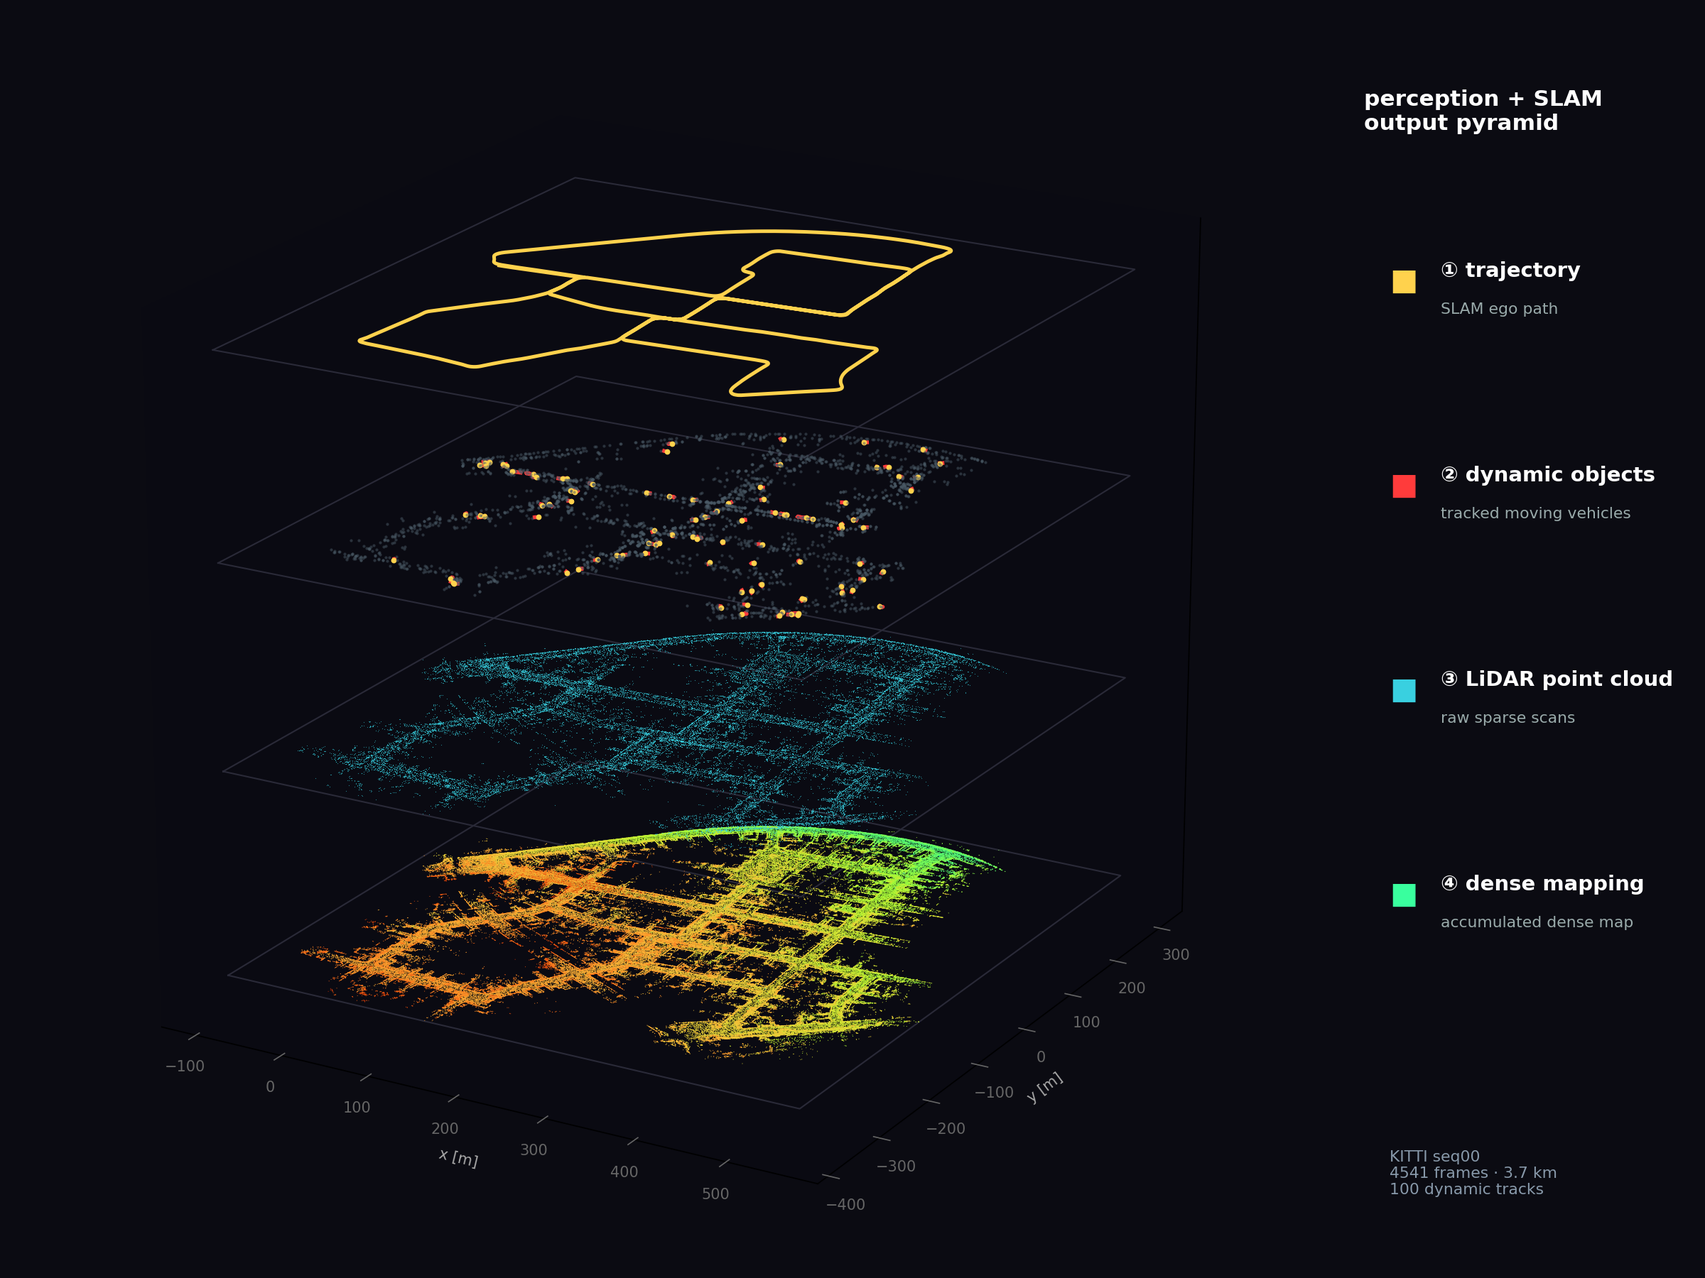
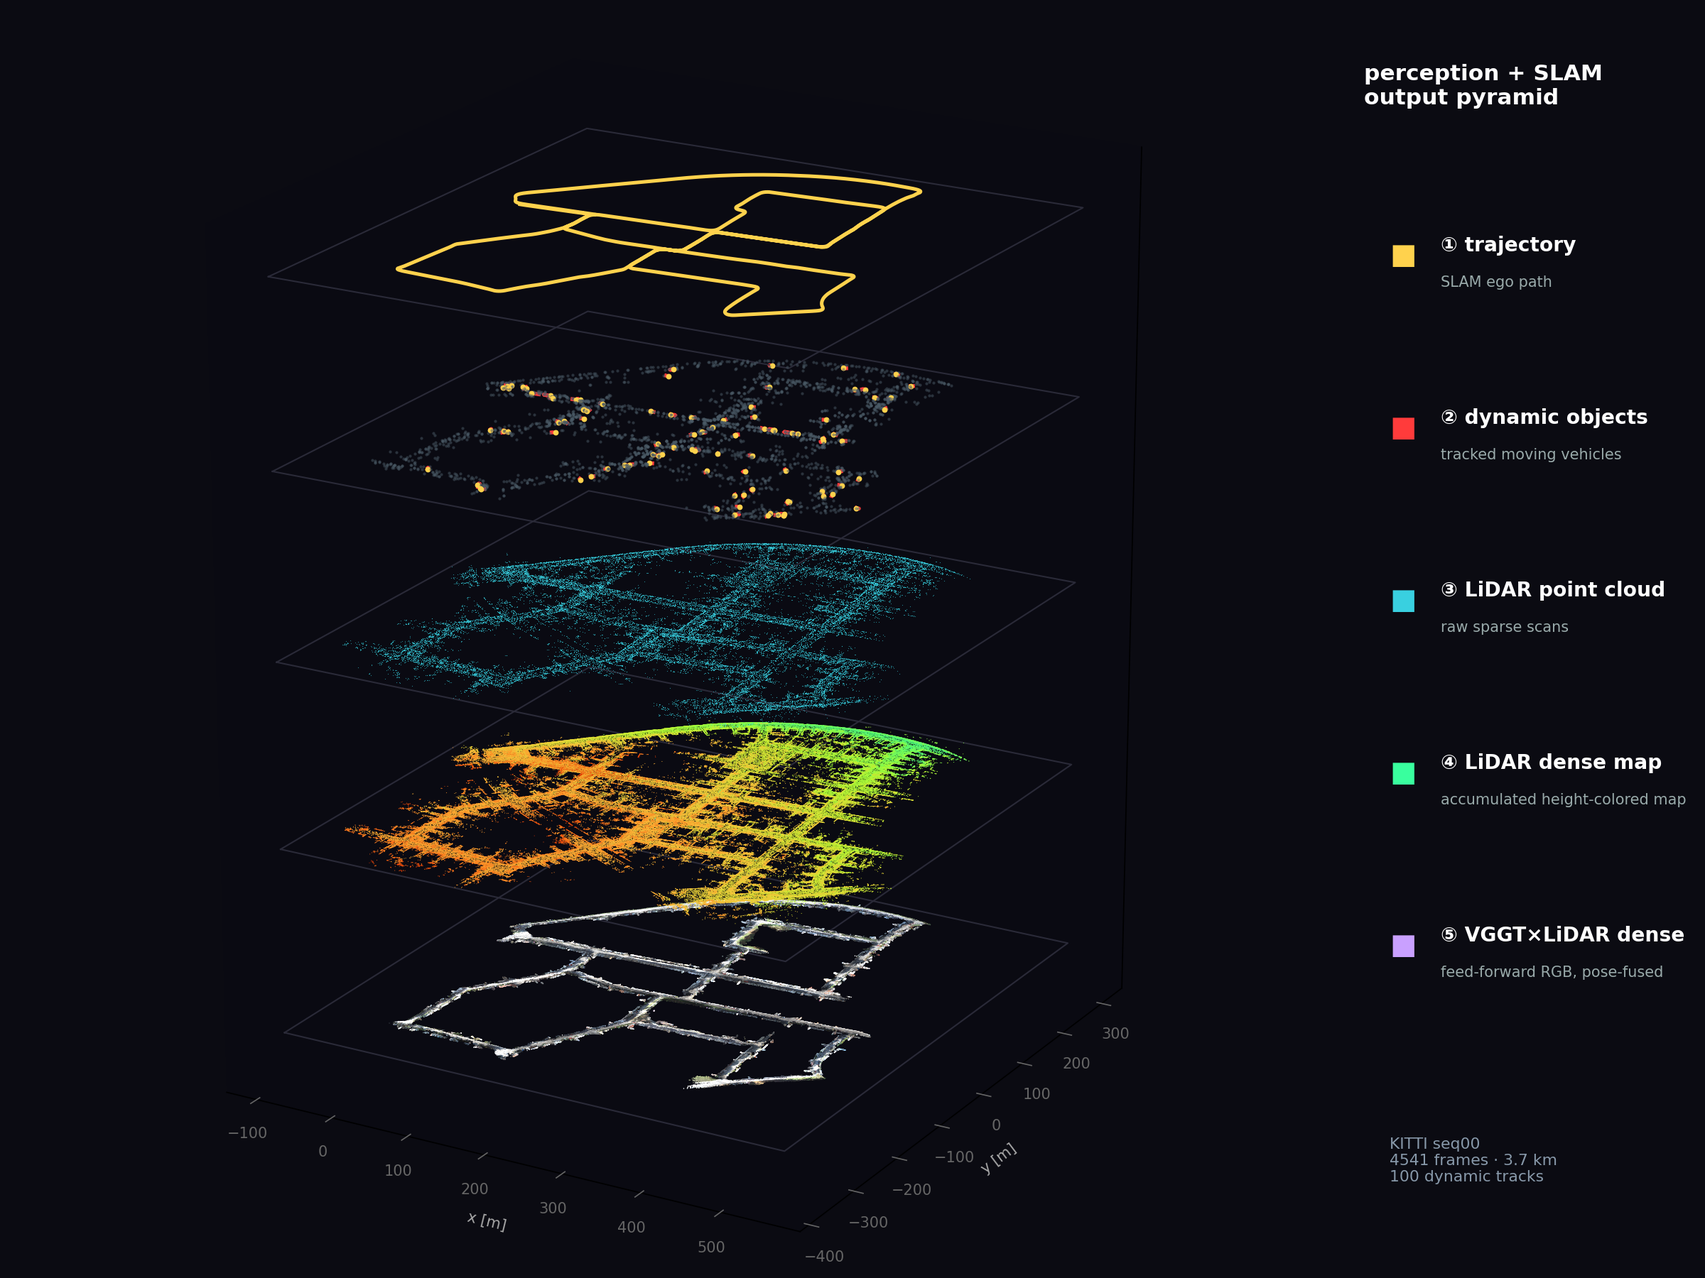
Deeply couple VGGT dense reconstruction into LiDAR SLAM world
- scripts/run_vggt_fuse.py: per-window VGGT feed-forward dense cloud + camera
  poses, aligned to SLAM camera trajectory via scale-Sim(3) Umeyama, fused into
  the metric SLAM world frame (loop/PGO-consistent). seq00 cam-align RMSE 6-20cm,
  1.53M-point colored map over the full 3.7km loop.
- plot_pyramid.py: 5th layer = VGGT×LiDAR dense RGB base (falls back to 4 layers
  if the fused npz is absent).
- Only the public VGGT model + official weights; no non-public fusion code.
  Honest scope: pose-anchored dense fusion (visualization-grade), not joint BA.
- README: highlights row, VGGT-coupling section, 5-layer pyramid, gallery figure.

diff --git a/scripts/run_vggt_fuse.py b/scripts/run_vggt_fuse.py
@@ -1,0 +1,164 @@
+"""VGGT 深度耦合进 LiDAR SLAM：把 VGGT 前馈稠密重建按位姿配准、定尺度，融进 SLAM 世界系。
+
+不是"仅渲染"了——这里做真正的耦合：
+  · VGGT 每个窗口输出稠密带色点云 + 相机位姿，但**单目、尺度任意、各窗口独立**；
+  · LiDAR SLAM 提供**全局一致的度量位姿**（slam_seqSS.npz 的 opt 位姿，含回环/PGO）；
+  · 对每个窗口，用 VGGT 相机中心 vs SLAM 相机中心做 **Sim(3)（含尺度）Umeyama 对齐**，
+    把该窗口的稠密点旋到 SLAM 世界系并赋予真实米制尺度；
+  · 多窗口累积 + 体素下采样 → 一张**全局一致、度量正确、稠密带色**的 VGGT 地图，
+    与 LiDAR 轨迹/地图同系（叠轨迹即可验证配准）。
+
+即：LiDAR 给尺度与全局约束，VGGT 给稠密光度几何，两者经位姿耦合。**仅调公开 VGGT 权重，
+绝不导入任何非公开的 LiDAR-VGGT-SLAM 融合工程**（PYTHONPATH 指公开 VGGT-Long/base_models）。
+用法：python scripts/run_vggt_fuse.py --seq 0 --end 360 --count 16 --step 2
+"""
+import argparse
+import os
+import sys
+from pathlib import Path
+
+import numpy as np
+import torch
+
+ROOT = Path(__file__).resolve().parents[1]
+sys.path.insert(0, str(ROOT))
+VGGT_SRC = os.environ.get('VGGT_SRC', '/media/4T/cst/PROJECT/Compare_SLAM/VGGT-Long/base_models')
+VGGT_WEIGHTS = os.environ.get('VGGT_WEIGHTS', '/media/4T/cst/model/VGGT.pt')
+sys.path.insert(0, VGGT_SRC)
+
+from vggt.models.vggt import VGGT
+from vggt.utils.load_fn import load_and_preprocess_images
+from vggt.utils.pose_enc import pose_encoding_to_extri_intri
+
+from kitti_slam import kitti_io as io
+
+
+def kitti_image(seq, frame):
+    return (Path('/media/4T/cst/DATASETS/SLAM/KITTI_Odometry/unpacked/dataset/sequences')
+            / f'{int(seq):02d}' / 'image_2' / f'{int(frame):06d}.png')
+
+
+def umeyama_sim3(A, B):
+    """求 s,R,t 使 B ≈ s·R·A + t（含尺度的相似变换，Umeyama 1991）。A,B: (N,3)。"""
+    mu_a, mu_b = A.mean(0), B.mean(0)
+    Ac, Bc = A - mu_a, B - mu_b
+    H = (Ac.T @ Bc) / len(A)
+    U, D, Vt = np.linalg.svd(H)
+    S = np.eye(3)
+    if np.linalg.det(U) * np.linalg.det(Vt) < 0:
+        S[2, 2] = -1
+    R = Vt.T @ S @ U.T
+    var_a = (Ac ** 2).sum() / len(A)
+    s = float((D * np.diag(S)).sum() / var_a)
+    t = mu_b - s * R @ mu_a
+    return s, R, t
+
+
+def voxel_downsample(P, C, voxel):
+    """体素栅格下采样：每格取首个点。返回下采样后的 P,C。"""
+    key = np.floor(P / voxel).astype(np.int64)
+    _, idx = np.unique(key, axis=0, return_index=True)
+    return P[idx], C[idx]
+
+
+def main(argv=None):
+    ap = argparse.ArgumentParser(description=__doc__)
+    ap.add_argument('--seq', type=int, default=0)
+    ap.add_argument('--start', type=int, default=0)
+    ap.add_argument('--end', type=int, default=360, help='覆盖到的帧（含多个窗口）')
+    ap.add_argument('--count', type=int, default=16, help='每窗口送入 VGGT 的帧数')
+    ap.add_argument('--step', type=int, default=2, help='窗口内帧间隔')
+    ap.add_argument('--conf-pct', type=float, default=55.0)
+    ap.add_argument('--voxel', type=float, default=0.3, help='累积地图体素下采样(米)')
+    ap.add_argument('--out', default=None)
+    args = ap.parse_args(argv)
+
+    npz = ROOT / 'reports' / f'slam_seq{args.seq:02d}.npz'
+    if not npz.exists():
+        print(f'需要先跑 run_slam.py 生成 {npz.name}'); return 1
+    T_wv = np.load(npz)['opt']                                  # T_world_velo（含回环/PGO）
+    Tr_inv = io.read_calib(args.seq)['Tr_inv']
+    T_wc = T_wv @ Tr_inv                                        # T_world_cam0：相机在世界系
+    cam_w = T_wc[:, :3, 3]                                      # SLAM 相机中心轨迹
+
+    device = 'cuda'
+    print(f'loading VGGT ({VGGT_WEIGHTS}) ...')
+    model = VGGT()
+    model.load_state_dict(torch.load(VGGT_WEIGHTS, map_location='cpu', weights_only=True), strict=False)
+    model.eval().to(device).requires_grad_(False)
+    dtype = torch.bfloat16 if torch.cuda.get_device_capability()[0] >= 8 else torch.float16
+
+    span = args.count * args.step
+    win_starts = list(range(args.start, min(args.end, len(T_wv)) - span + 1, span))
+    print(f'seq{args.seq:02d}: {len(win_starts)} windows × {args.count} frames, '
+          f'covering f{args.start}..{win_starts[-1] + span}')
+
+    all_P, all_C = [], []
+    for w0 in win_starts:
+        frames = list(range(w0, w0 + span, args.step))
+        paths = [str(kitti_image(args.seq, f)) for f in frames]
+        images = load_and_preprocess_images(paths).to(device)
+        with torch.no_grad(), torch.autocast('cuda', dtype=dtype):
+            pred = model(images)
+        wp = pred['world_points'][0].float().cpu().numpy()          # [S,H,W,3]
+        conf = pred['world_points_conf'][0].float().cpu().numpy()   # [S,H,W]
+        imgs = pred['images'][0].float().cpu().numpy().transpose(0, 2, 3, 1)
+        extr, _ = pose_encoding_to_extri_intri(pred['pose_enc'], images.shape[-2:])
+        extr = extr[0].float().cpu().numpy()                        # [S,3,4] world->cam
+        # VGGT 相机中心（VGGT 世界系）= -R^T t
+        cam_v = np.array([-e[:3, :3].T @ e[:3, 3] for e in extr])
+
+        s, R, t = umeyama_sim3(cam_v, cam_w[frames])                # VGGT→SLAM 世界系
+        P = wp.reshape(-1, 3); C = imgs.reshape(-1, 3).clip(0, 1); K = conf.reshape(-1)
+        keep = K >= np.percentile(K, args.conf_pct)
+        P, C = P[keep], C[keep]
+        Pw = (s * (P @ R.T)) + t                                    # 融进 SLAM 世界系(米制)
+        Pw, C = voxel_downsample(Pw, C, args.voxel)
+        all_P.append(Pw); all_C.append(C)
+        fit = np.linalg.norm((s * (cam_v @ R.T) + t) - cam_w[frames], axis=1).mean()
+        print(f'  win f{w0:04d}: scale={s:.2f}, cam-align RMSE={fit:.2f}m, '
+              f'+{len(Pw):,} pts', flush=True)
+
+    P = np.vstack(all_P); C = np.vstack(all_C)
+    P, C = voxel_downsample(P, C, args.voxel)
+    print(f'fused VGGT map: {len(P):,} points (voxel {args.voxel}m)')
+    out_npz = ROOT / 'reports' / f'vggt_fused_seq{args.seq:02d}.npz'
+    np.savez(out_npz, points=P, colors=C, cam_w=cam_w[:win_starts[-1] + span])
+    print('  saved', out_npz.name)
+
+    _render(args, P, C, cam_w[args.start:win_starts[-1] + span])
+    return 0
+
+
+def _render(args, P, C, traj):
+    import matplotlib
+    matplotlib.use('Agg')
+    import matplotlib.pyplot as plt
+    # SLAM velo 世界系：z 竖直。俯视取 (x, y)。
+    fig = plt.figure(figsize=(18, 8)); fig.patch.set_facecolor('#0b0b12')
+    axb = fig.add_subplot(1, 2, 1); axb.set_facecolor('#0b0b12')
+    axb.scatter(P[:, 0], P[:, 1], c=C, s=0.35, linewidths=0, rasterized=True)
+    axb.plot(traj[:, 0], traj[:, 1], '-', color='#ffe14d', lw=1.6, label='SLAM trajectory')
+    axb.set_aspect('equal'); axb.legend(labelcolor='w', loc='upper right')
+    axb.set_title('VGGT dense map fused into SLAM world (BEV, metric)', color='w')
+    axb.set_xlabel('x [m]'); axb.set_ylabel('y [m]')
+    ax3 = fig.add_subplot(1, 2, 2, projection='3d'); ax3.set_facecolor('#0b0b12')
+    for pane in (ax3.xaxis, ax3.yaxis, ax3.zaxis):
+        pane.set_pane_color((0.04, 0.04, 0.07, 1.0)); pane.label.set_color('w')
+        pane.set_tick_params(colors='#888')
+    sub = np.random.default_rng(0).choice(len(P), min(200000, len(P)), replace=False)
+    ax3.scatter(P[sub, 0], P[sub, 1], P[sub, 2], c=C[sub], s=0.4, linewidths=0, depthshade=False)
+    ax3.plot(traj[:, 0], traj[:, 1], traj[:, 2], '-', color='#ffe14d', lw=1.4)
+    ax3.set_title('VGGT×LiDAR dense reconstruction (3D, world frame)', color='w')
+    ax3.set_xlabel('x'); ax3.set_ylabel('y'); ax3.set_zlabel('z')
+    ax3.view_init(elev=38, azim=-60)
+    axb.tick_params(colors='w'); [sp.set_color('w') for sp in axb.spines.values()]
+    fig.suptitle(f'KITTI seq{args.seq:02d}: VGGT feed-forward reconstruction deeply coupled '
+                 f'to LiDAR SLAM (pose-anchored Sim(3) fusion)', color='w')
+    out = args.out or ROOT / 'reports' / f'vggt_fused_seq{args.seq:02d}.png'
+    fig.tight_layout(); fig.savefig(out, dpi=130, facecolor='#0b0b12')
+    print('  saved', out)
+
+
+if __name__ == '__main__':
+    raise SystemExit(main())

diff --git a/scripts/plot_pyramid.py b/scripts/plot_pyramid.py
@@ -1,11 +1,13 @@
-"""分层金字塔图：把系统输出分成四层水平面自底向上堆叠（数据→抽象的金字塔）。
+"""分层金字塔图：把系统输出分成五层水平面自底向上堆叠（数据→抽象的金字塔）。
 
-  顶  ①轨迹 (trajectory)            —— 最抽象、最紧凑
+  顶  ①轨迹 (trajectory)               —— 最抽象、最紧凑
       ②动态物体 (dynamic objects, 红=动/青=静)
       ③激光点云 (raw LiDAR points, 稀疏)
-  底  ④稠密建图 (dense map, 按高度着色)  —— 数据量最大
+      ④稠密建图 (LiDAR dense map, 按高度着色)
+  底  ⑤VGGT×LiDAR 稠密重建 (RGB 带色，深度耦合)  —— 数据量最大、最具象
 
 所有层共用 seq00 SLAM 世界系的同一 XY 底面，垂直错开堆叠；图例标注在右侧。
+⑤ 层来自 run_vggt_fuse.py（VGGT 前馈稠密重建按位姿 Sim(3) 融进 SLAM 世界系）；缺则退回四层。
 用法：python scripts/plot_pyramid.py --seq 0
 """
 import argparse
@@ -34,6 +36,15 @@ def main(argv=None):
     for c in sorted((ROOT / 'reports').glob(f'demo_cache_seq{args.seq:02d}_*.pkl')):
         tracks = pickle.load(open(c, 'rb'))[4]; break
 
+    vggt_npz = ROOT / 'reports' / f'vggt_fused_seq{args.seq:02d}.npz'
+    vggt = None
+    if vggt_npz.exists():
+        vf = np.load(vggt_npz)
+        vp, vc = vf['points'], vf['colors']
+        sub = rng.choice(len(vp), min(220000, len(vp)), replace=False)
+        # 亮度提一点(gamma)让 KITTI 偏暗的 RGB 在深底上更清楚；仅显示用
+        vggt = (vp[sub], np.clip(vc[sub] ** 0.7 * 1.15, 0, 1))
+
     import matplotlib
     matplotlib.use('Agg')
     import matplotlib.pyplot as plt
@@ -44,51 +55,63 @@ def main(argv=None):
     x0, x1 = mp[:, 0].min(), mp[:, 0].max()
     y0, y1 = mp[:, 1].min(), mp[:, 1].max()
     frame = np.array([[x0, y0], [x1, y0], [x1, y1], [x0, y1], [x0, y0]])
-    Z = [0, args.gap, 2 * args.gap, 3 * args.gap]                   # 底→顶
+    nlev = 5 if vggt is not None else 4
+    Z = [i * args.gap for i in range(nlev)]                         # 底→顶
+    top = nlev - 1
 
     def plane(z):
         ax.plot(frame[:, 0], frame[:, 1], z, color='#2a2a38', lw=1.0)
 
-    # ④ 底：稠密建图（按高度着色）
-    ax.scatter(dense[:, 0], dense[:, 1], np.full(len(dense), Z[0]),
+    b = 0
+    if vggt is not None:
+        # ⑤ 底：VGGT×LiDAR 稠密带色重建（深度耦合），最具象
+        vp, vc = vggt
+        ax.scatter(vp[:, 0], vp[:, 1], np.full(len(vp), Z[0]),
+                   c=vc, s=0.5, linewidths=0, depthshade=False)
+        plane(Z[0]); b = 1
+    # ④ LiDAR 稠密建图（按高度着色）
+    ax.scatter(dense[:, 0], dense[:, 1], np.full(len(dense), Z[b]),
                c=dense[:, 2] - dense[:, 2].min(), cmap='turbo', s=0.25, linewidths=0, depthshade=False)
-    plane(Z[0])
+    plane(Z[b])
     # ③ 激光点云（稀疏、单色青）
-    ax.scatter(sparse[:, 0], sparse[:, 1], np.full(len(sparse), Z[1]),
+    ax.scatter(sparse[:, 0], sparse[:, 1], np.full(len(sparse), Z[b + 1]),
                c='#39d0e0', s=0.3, linewidths=0, alpha=0.65, depthshade=False)
-    plane(Z[1])
+    plane(Z[b + 1])
     # ② 动态物体：动态红线突出，静态弱化成暗灰小点
     for is_dyn, h in tracks.values():
         if is_dyn:
-            ax.plot(h[:, 1], h[:, 2], np.full(len(h), Z[2]), color='#ff3b3b', lw=2.6)
-            ax.scatter(h[-1, 1], h[-1, 2], Z[2], c='#ffd24d', s=14, linewidths=0, depthshade=False)
+            ax.plot(h[:, 1], h[:, 2], np.full(len(h), Z[b + 2]), color='#ff3b3b', lw=2.6)
+            ax.scatter(h[-1, 1], h[-1, 2], Z[b + 2], c='#ffd24d', s=14, linewidths=0, depthshade=False)
         else:
-            ax.scatter(h[-1, 1], h[-1, 2], Z[2], c='#4a5a66', s=4, linewidths=0,
+            ax.scatter(h[-1, 1], h[-1, 2], Z[b + 2], c='#4a5a66', s=4, linewidths=0,
                        alpha=0.5, depthshade=False)
-    plane(Z[2])
+    plane(Z[b + 2])
     # ① 轨迹（顶）
-    ax.plot(traj[:, 0], traj[:, 1], np.full(len(traj), Z[3]), color='#ffd24d', lw=2.4)
-    plane(Z[3])
+    ax.plot(traj[:, 0], traj[:, 1], np.full(len(traj), Z[top]), color='#ffd24d', lw=2.4)
+    plane(Z[top])
 
     for pane in (ax.xaxis, ax.yaxis, ax.zaxis):
         pane.set_pane_color((0.04, 0.04, 0.07, 1.0))
-    ax.set_box_aspect(((x1 - x0), (y1 - y0), 3.5 * args.gap))
+    ax.set_box_aspect(((x1 - x0), (y1 - y0), (nlev + 0.5) / 4 * 3.5 * args.gap))
     ax.set_zticks([]); ax.set_xlabel('x [m]', color='#aaa'); ax.set_ylabel('y [m]', color='#aaa')
     ax.tick_params(colors='#666'); ax.grid(False)
     ax.view_init(elev=20, azim=-60)
 
     # 右侧图例（顶→底，配色与各层一致）
-    fig.text(0.80, 0.93, 'perception + SLAM\noutput pyramid', color='w',
+    fig.text(0.80, 0.95, 'perception + SLAM\noutput pyramid', color='w',
              fontsize=15, weight='bold', va='top')
-    rows = [(0.78, '#ffd24d', '① trajectory', 'SLAM ego path'),
-            (0.62, '#ff3b3b', '② dynamic objects', 'tracked moving vehicles'),
-            (0.46, '#39d0e0', '③ LiDAR point cloud', 'raw sparse scans'),
-            (0.30, '#39ff9e', '④ dense mapping', 'accumulated dense map')]
-    for y, col, name, desc in rows:
-        fig.text(0.815, y, '■', color=col, fontsize=20, va='center')
-        fig.text(0.845, y + 0.008, name, color='w', fontsize=14, weight='bold', va='center')
-        fig.text(0.845, y - 0.022, desc, color='#9aa', fontsize=10.5, va='center')
-    fig.text(0.815, 0.10, f'KITTI seq{args.seq:02d}\n{len(traj)} frames · 3.7 km\n'
+    rows = [('#ffd24d', '① trajectory', 'SLAM ego path'),
+            ('#ff3b3b', '② dynamic objects', 'tracked moving vehicles'),
+            ('#39d0e0', '③ LiDAR point cloud', 'raw sparse scans'),
+            ('#39ff9e', '④ LiDAR dense map', 'accumulated height-colored map')]
+    if vggt is not None:
+        rows.append(('#c9a0ff', '⑤ VGGT×LiDAR dense', 'feed-forward RGB, pose-fused'))
+    ys = np.linspace(0.80, 0.26, len(rows))
+    for y, (col, name, desc) in zip(ys, rows):
+        fig.text(0.815, y, '■', color=col, fontsize=19, va='center')
+        fig.text(0.845, y + 0.008, name, color='w', fontsize=13.5, weight='bold', va='center')
+        fig.text(0.845, y - 0.021, desc, color='#9aa', fontsize=10, va='center')
+    fig.text(0.815, 0.11, f'KITTI seq{args.seq:02d}\n{len(traj)} frames · 3.7 km\n'
              f'{sum(v[0] for v in tracks.values())} dynamic tracks',
              color='#8899aa', fontsize=10.5, va='top')
 

diff --git a/README.md b/README.md
@@ -21,6 +21,7 @@
 | 🚗 **从零手写 PointPillars** | 不碰 spconv/OpenPCDet，KITTI val Car BEV **AP@0.7 = 70.06** |
 | ⚡ **从零 C++/Eigen ICP** | pybind11 + OpenMP，比等价 NumPy 快 **~8×**，与 Open3D 位姿差 **0.1 mm** |
 | 🔁 **感知反哺 SLAM** | 多目标跟踪判动/静 → 剔除动态点 → 干净静态地图 |
+| 🌈 **VGGT 深度耦合** | 前馈视觉大模型稠密重建按位姿 Sim(3) 融进 SLAM 世界系，相机对齐 **RMSE 6–20 cm** |
 | ✅ **工程化** | 19 项单测 + GitHub Actions CI（含 C++ 扩展自动编译） |
 
 ---
@@ -33,7 +34,7 @@
 
 ![demo](reports/demo_seq00_dl.gif)
 
-**四层金字塔：从原始激光到稠密地图**（轨迹 / 动态物体 / 激光点云 / 稠密建图）
+**五层金字塔：从稠密像素到抽象轨迹**（① 轨迹 / ② 动态物体 / ③ 激光点云 / ④ LiDAR 稠密图 / ⑤ VGGT×LiDAR 稠密重建）
 ![pyramid](reports/pyramid_seq00.png)
 
 | | |
@@ -42,6 +43,7 @@
 | 建出的城区占据地图 ![map](reports/map_seq00_bev.png) | 俯视激光点云（叠轨迹）![cloud](reports/cloud_bev_seq00.png) |
 | 先验图定位：误差有界 vs 里程计漂移 ![loc](reports/localize_seq00.png) | 建图上全局路径规划 ![nav](reports/nav_seq00.png) |
 | PointPillars 预测（绿）vs 真值（红）![pp](reports/det3d_pred_000025.png) | 动态感知建图（剔除移动车）![clean](reports/clean_map_seq00.png) |
+| VGGT 稠密重建深度耦合进 SLAM 世界系（叠轨迹验证配准）![vggt](reports/vggt_fused_seq00.png) | |
 
 ---
 
@@ -89,6 +91,23 @@ pybind11 暴露成 `kitti_slam.icp_cpp`。与 Open3D 同款线性化，位姿对
 
 ---
 
+## 🌈 VGGT 视觉大模型深度耦合（`scripts/run_vggt_fuse.py`）
+
+把前馈视觉几何大模型 **VGGT** 的稠密重建，真正**融进** LiDAR SLAM 的世界系——不是并排渲染：
+
+- VGGT 每个窗口前馈出稠密带色点云 + 相机位姿，但**单目、尺度任意、各窗口独立**；
+- LiDAR SLAM 给出**全局一致的度量位姿**（含回环 + 位姿图）；
+- 对每个窗口，用 VGGT 相机中心 vs SLAM 相机中心做 **含尺度的 Sim(3)（Umeyama）对齐**，
+  把稠密点旋进 SLAM 世界系并赋予真实米制尺度；多窗口累积 + 体素下采样成全局稠密带色地图。
+
+即 **LiDAR 定尺度与全局约束、VGGT 供稠密光度几何**，经相机位姿耦合。seq00 各窗口相机对齐
+**RMSE 仅 6–20 cm**，叠上 SLAM 轨迹即可肉眼验证配准（见效果图与金字塔第 ⑤ 层）。
+
+> 只调**公开 VGGT 模型 + 官方权重**，**绝不导入任何非公开的融合研究工程**——耦合逻辑全为独立实现。
+> 这是位姿锚定的稠密融合，非联合 BA；诚实定位为"可视化级深度耦合"。
+
+---
+
 ## 🚀 快速开始
 
 ```bash
@@ -104,6 +123,10 @@ $PY scripts/run_nav.py      --seq 0               # 全局路径规划
 $PY scripts/det3d_train.py     --epochs 20 --bs 6 --resume        # 训 PointPillars
 $PY scripts/det3d_eval.py      --max-frames 1000 --score 0.1      # val Car BEV AP
 $PY scripts/run_demo_anim.py   --detector dl --frames 800         # 上面那张 demo GIF
+
+# —— VGGT 视觉大模型深度耦合 ——
+$PY scripts/run_vggt_fuse.py   --seq 0 --end 4541                 # VGGT 稠密重建融进 SLAM 世界系
+$PY scripts/plot_pyramid.py    --seq 0                            # 五层金字塔（⑤=VGGT×LiDAR）
 
 # —— 自研 C++ ICP ——
 bash native/fetch_deps.sh && bash native/build.sh                 # 编译扩展
@@ -159,6 +182,7 @@ kitti_slam/
   tracking.py      世界系卡尔曼多目标跟踪（反哺去动态）  metrics.py   ATE + KITTI 官方相对误差
 det3d/             从零 PointPillars（体素化 / 骨干 / 锚框 / 损失 / 推理）
 native/            C++/Eigen point-to-plane ICP（pybind11 → kitti_slam.icp_cpp）
+scripts/           各里程碑入口 + run_vggt_fuse（VGGT×LiDAR 深度耦合）+ plot_pyramid（五层图）
 ```
 
 <details>
@@ -179,5 +203,6 @@ native/            C++/Eigen point-to-plane ICP（pybind11 → kitti_slam.icp_cp
 
 - ☑ 从零 PointPillars 3D 检测（AP@0.7 70.06）+ 多目标跟踪 + 动态点剔除建图
 - ☑ 从零 C++/Eigen ICP（pybind11，快 ~8×）
+- ☑ VGGT 前馈视觉大模型深度耦合（位姿锚定 Sim(3) 稠密融合，只调公开冻结权重）
+- ☐ 把 VGGT 稠密融合升级为联合 BA / 深度约束进 ICP（当前为可视化级耦合）
 - ☐ 更大 / 多楼层场景（Newer College / Hilti，需子图 + 位姿图架构）
-- ☐ 独立接入 VGGT 等前馈视觉模型作视觉前端（只调冻结权重，与 LiDAR 松耦合做消融，不复用任何非公开工程）
